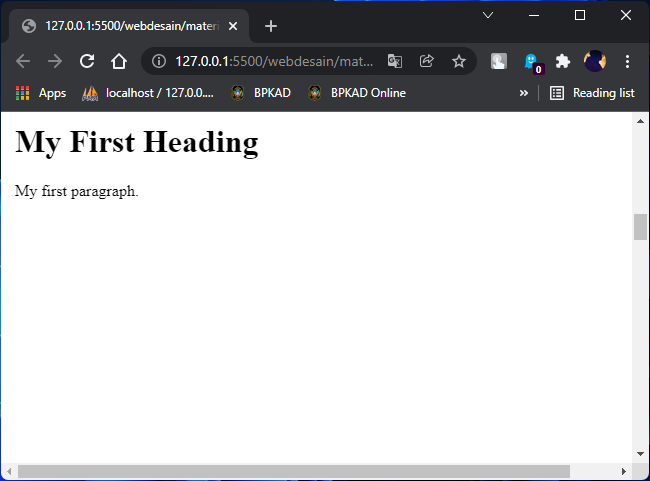
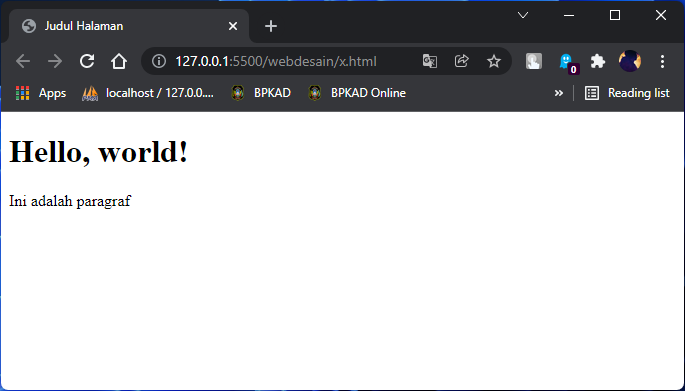
M

diff --git a/webdesain/materi1.html b/webdesain/materi1.html
@@ -201,8 +201,11 @@
                         <ul type="square">
                             <li>
                                 <h4>Langkah 1: Buka Notepad</h4>
-                                <u>Windows 8 atau lebih baru:</u> <br> Buka Layar Mulai (simbol jendela di kiri bawah layar Anda). Ketik Notepad. <br> <u>Windows 7 atau sebelumnya:</u> <br> Buka <strong>Start</strong> &gt; <strong>Programs</strong> &gt;
-                                <strong>Accessories</strong> &gt; <strong>Notepad</strong></li>
+                                <p>
+                                    <u>Windows 8 atau lebih baru:</u> <br> Buka Layar Mulai (simbol jendela di kiri bawah layar Anda). Ketik Notepad. <br> <u>Windows 7 atau sebelumnya:</u> <br> Buka <strong>Start</strong> &gt; <strong>Programs</strong>                                    &gt;
+                                    <strong>Accessories</strong> &gt; <strong>Notepad</strong>
+                                </p>
+                            </li>
                             <li>
                                 <h4>Langkah 2: Tulis Beberapa HTML</h4>
                                 <p>Tulis atau salin kode HTML berikut ke Notepad:</p>
@@ -240,31 +243,32 @@
                     </li>
                     </ul>
 
-                    <p>Anda bisa menggunakan Code Editor sederhana kami.</p>
-                    <p>Dengan editor online sederhana ini, Anda dapat mengedit kode HTML dan melihat hasilnya di browser Anda. Ini adalah alat ketika Anda ingin <strong>menguji</strong> kode dengan cepat.</p>
-                    <p>Contoh :</p>
-                    <div class="bd-clipboard"><button type="button" class="btn-clipboard" title="" data-bs-original-title="Copy to clipboard">Copy</button></div>
-                    <div class="highlight">
-                        <code>
-                            &lt;!DOCTYPE html&gt; <br>
-                            &lt;html&gt; <br>
-                            &lt;head&gt; <br>
-                            &lt;title&gt;Page Title&lt;/title&gt; <br>
-                            &lt;/head&gt; <br>
-                            &lt;body&gt; <br>
-                            <br>
-                            &lt;h1&gt;This is a Heading&lt;/h1&gt; <br>
-                            &lt;p&gt;This is a paragraph.&lt;/p&gt; <br>
-                            <br>
-                            &lt;/body&gt; <br>
-                            &lt;/html&gt;
-                        </code>
-                        <hr>
-                        <p><a class="btn btn-warning btn-sm" href="code-editor/codeEditor2.html" target="_blank">Cobalah
-                                sendiri</a></p>
-                    </div>
-                    <!-- <p><a href="https://www.w3schools.com/html/tryit.asp?filename=tryhtml_editors" target="_blank">Cobalah sendiri</a></p> -->
-                    <p class="moreInfo text-break">Klik tombol <q><strong>Cobalah Sendiri</strong></q> untuk melihat cara kerjanya.</p>
+                    <section>
+                        <h5>Anda bisa menggunakan Code Editor sederhana kami.</h5>
+                        <p>Dengan editor online sederhana ini, Anda dapat mengedit kode HTML dan melihat hasilnya di browser Anda. Ini adalah alat ketika Anda ingin <strong>menguji</strong> kode dengan cepat.</p>
+                        <p>Contoh :</p>
+                        <div class="bd-clipboard"><button type="button" class="btn-clipboard" title="" data-bs-original-title="Copy to clipboard">Copy</button></div>
+                        <div class="highlight">
+                            <code>
+                                &lt;!DOCTYPE html&gt; <br>
+                                &lt;html&gt; <br>
+                                &lt;head&gt; <br>
+                                &lt;title&gt;Page Title&lt;/title&gt; <br>
+                                &lt;/head&gt; <br>
+                                &lt;body&gt; <br>
+                                <br>
+                                &lt;h1&gt;This is a Heading&lt;/h1&gt; <br>
+                                &lt;p&gt;This is a paragraph.&lt;/p&gt; <br>
+                                <br>
+                                &lt;/body&gt; <br>
+                                &lt;/html&gt;
+                            </code>
+                            <hr>
+                            <p><a class="btn btn-warning btn-sm" href="code-editor/codeEditor2.html" target="_blank">Cobalah
+                                    sendiri</a></p>
+                        </div>
+                        <p class="moreInfo text-break">Klik tombol <q><strong>Cobalah Sendiri</strong></q> untuk melihat cara kerjanya.</p>
+                    </section>
                 </section>
             </section>
         </div>

diff --git a/webdesain/x.html b/webdesain/x.html
@@ -1,17 +1,17 @@
-<!DOCTYPE html>
+<!doctype html>
 <html lang="en">
 
 <head>
-    <meta charset="UTF-8">
-    <meta http-equiv="X-UA-Compatible" content="IE=edge">
-    <meta name="viewport" content="width=device-width, initial-scale=1.0">
-    <title>Document</title>
+    <meta charset="utf-8">
+    <meta name="viewport" content="width=device-width, initial-scale=1">
+    <title>Judul Halaman</title>
 </head>
 
 <body>
-    <h1>My First Heading</h1>
 
-    <p>My first paragraph.</p>
+    <h1>Hello, world!</h1>
+    <p>Ini adalah paragraf</p>
+
 </body>
 
 </html>
